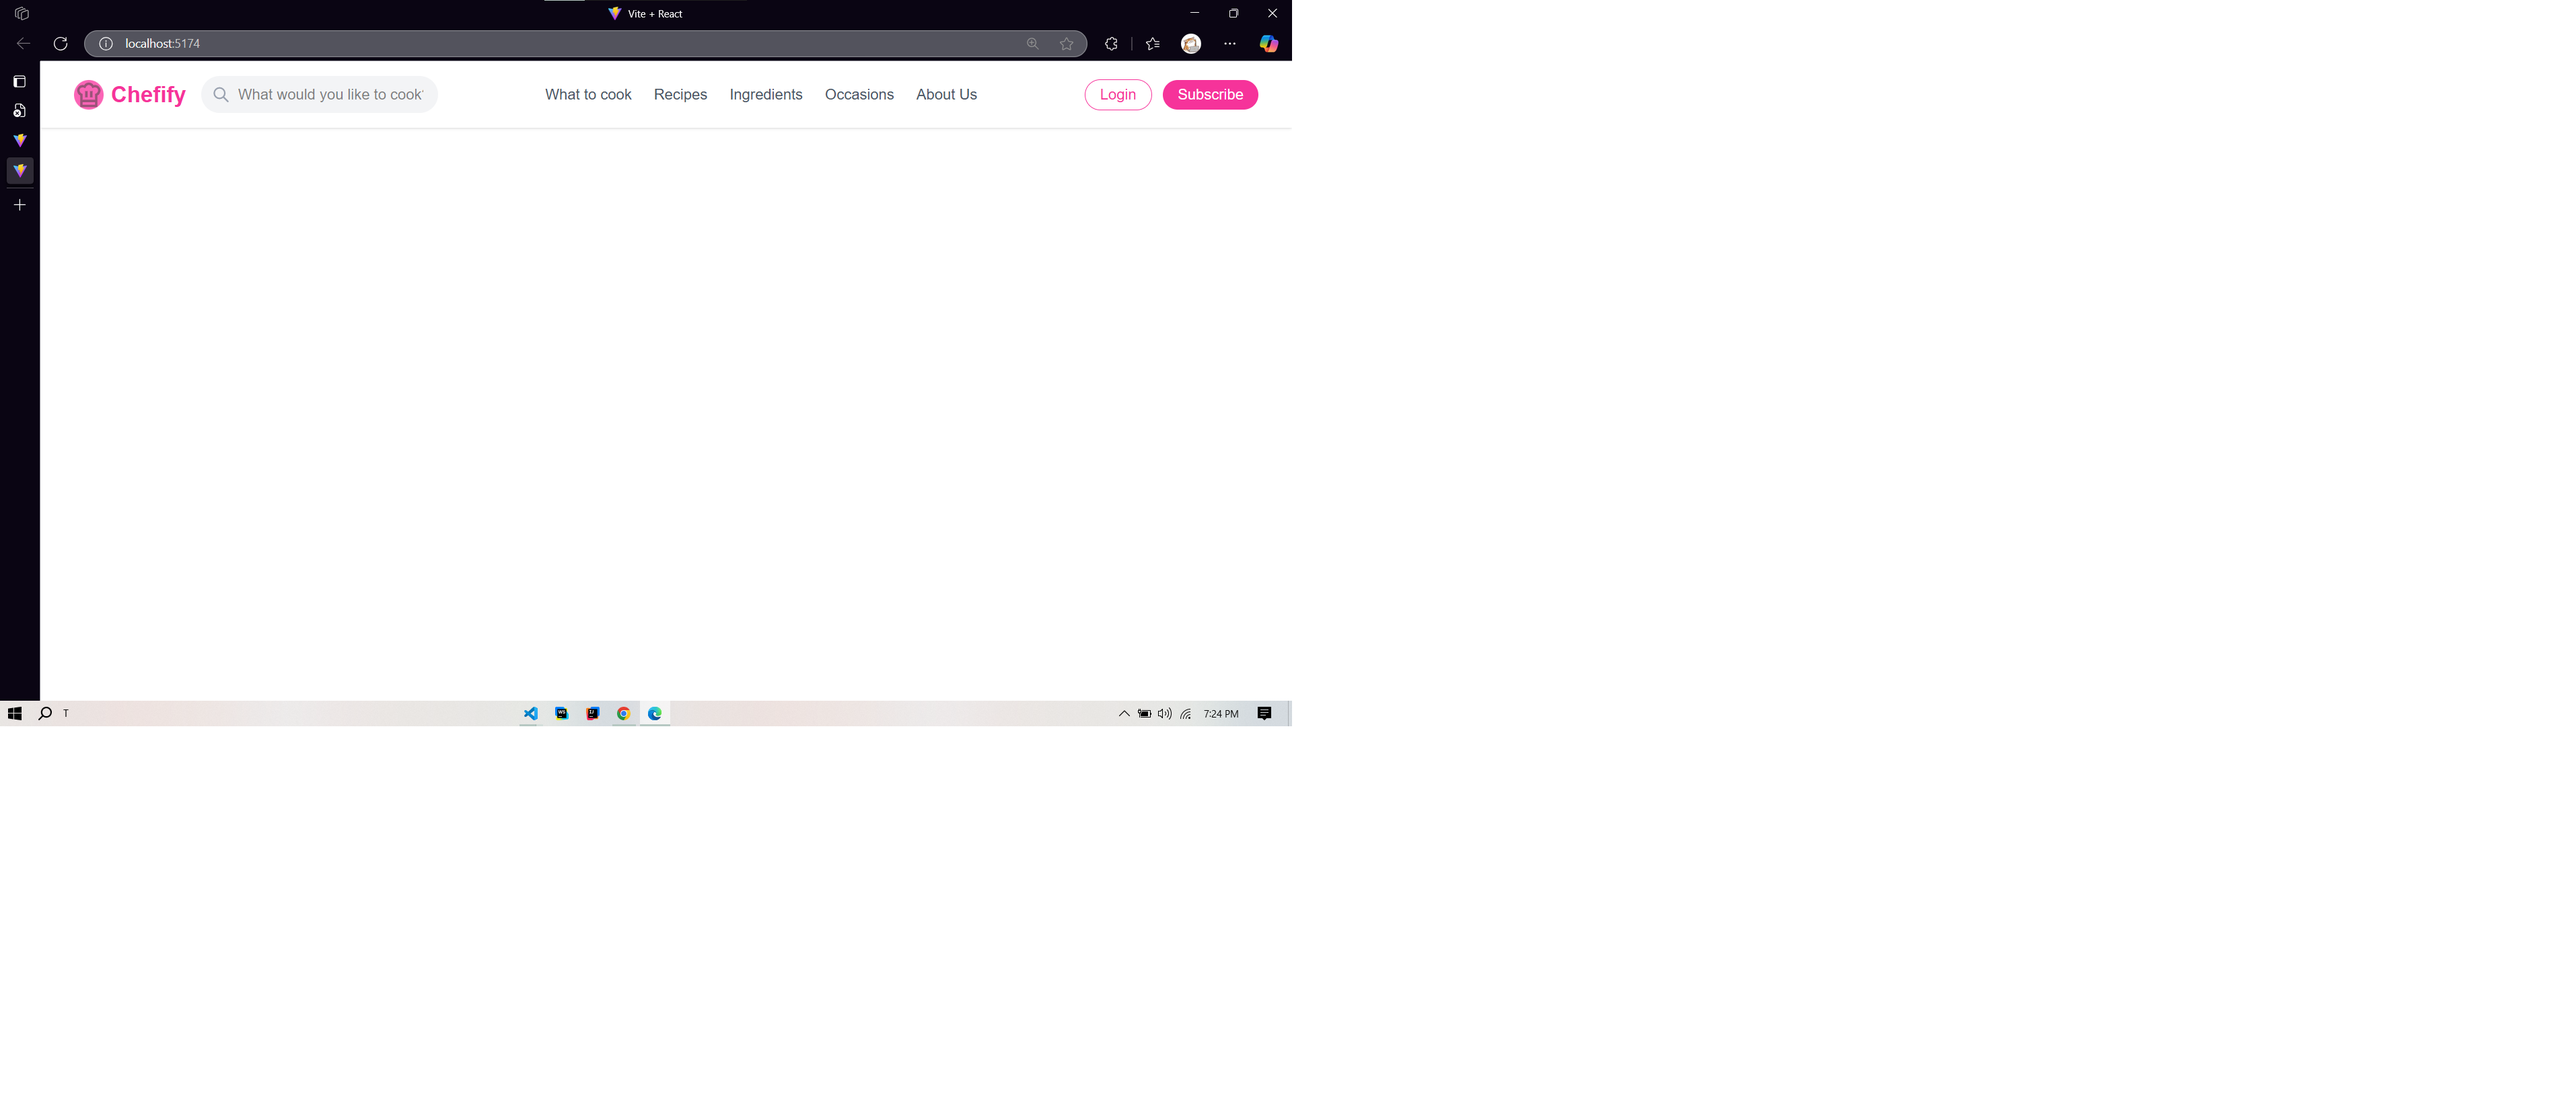
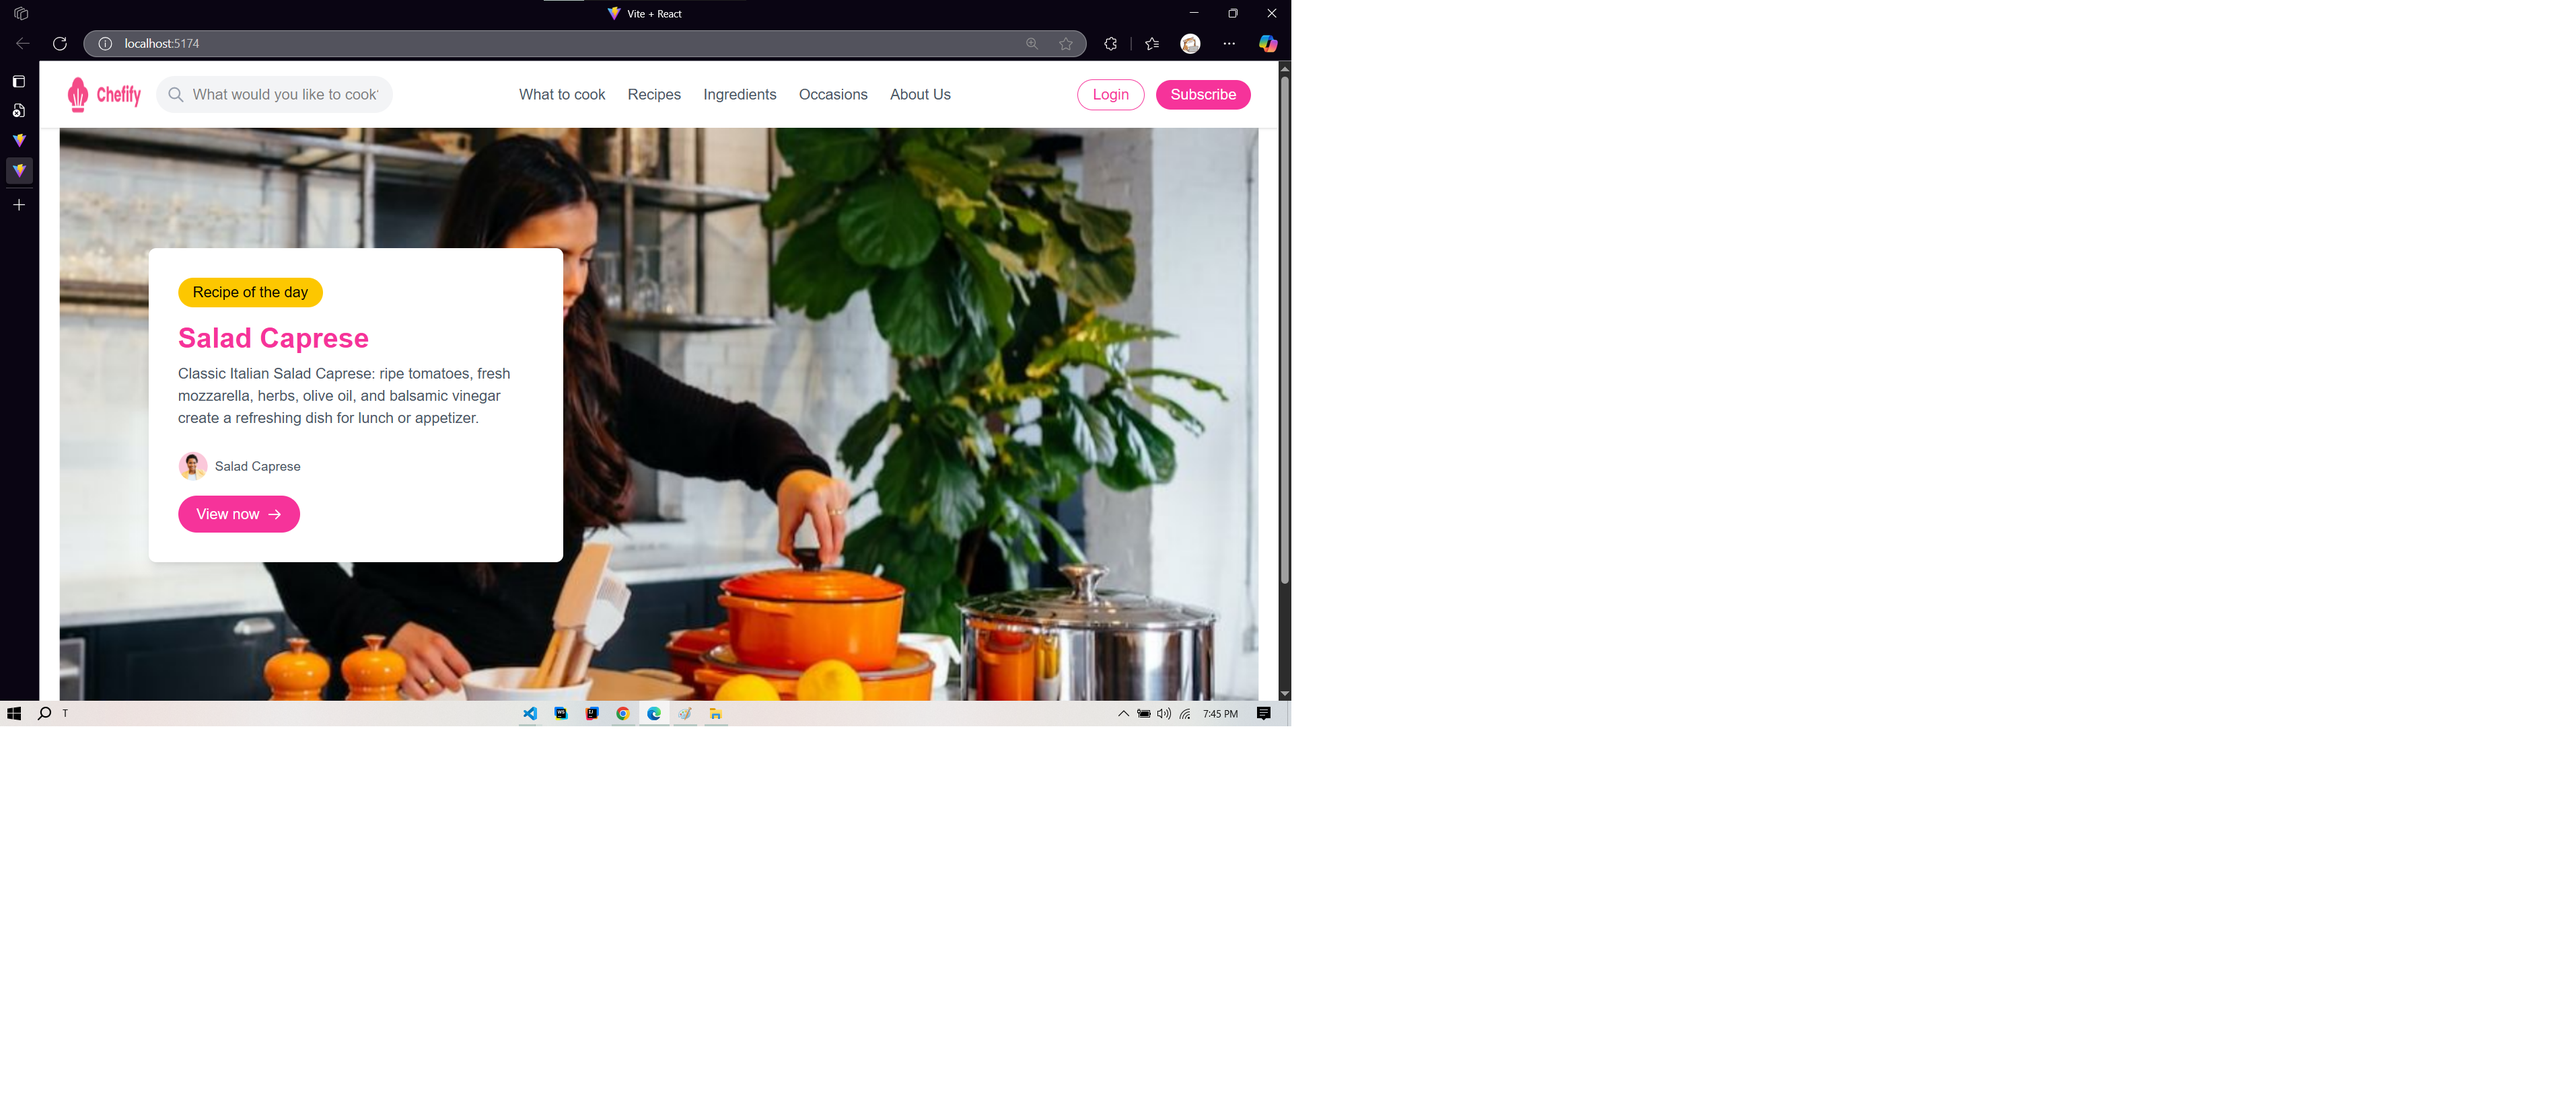
Complete nav

Changed region(s): [[0.0, 0.0312, 0.5285, 0.6562]]

diff --git a/src/components/Hero.jsx b/src/components/Hero.jsx
@@ -1,0 +1,44 @@
+import a1 from "../assets/avatar.png";
+import heroBackgroundImage from "../assets/Selection.png";
+
+const Hero = () => {
+  return (
+    <div className="relative">
+      {/* Background Image Container */}
+      <div className="absolute inset-0 w-full h-full">
+        <img
+          src={heroBackgroundImage}
+          alt="Kitchen background"
+          className="w-full h-190 object-cover"
+        />
+      </div>
+
+     
+      <div className="relative min-h-[600px] flex items-center">
+        <div className="container mx-auto px-6">
+          <div className="max-w-md bg-white rounded-lg shadow-lg p-8 ml-8 md:ml-16">
+            <div className="inline-block bg-yellow-400 px-4 py-1 rounded-full mb-4">Recipe of the day</div>
+            <h1 className="text-3xl font-bold text-pink-500 mb-2">Salad Caprese</h1>
+            <p className="text-gray-600 mb-6">
+              Classic Italian Salad Caprese: ripe tomatoes, fresh mozzarella, herbs, olive oil, and balsamic vinegar create a refreshing dish for lunch or appetizer.
+            </p>
+            <div className="flex items-center mb-4">
+              <div className="w-8 h-8 rounded-full overflow-hidden mr-2">
+                <img src={a1} alt="Chef" className="w-full h-full object-cover" />
+              </div>
+              <span className="text-sm text-gray-600">Salad Caprese</span>
+            </div>
+            <button className="bg-pink-500 text-white px-5 py-2 rounded-full hover:bg-pink-600 transition flex items-center">
+              View now
+              <svg className="w-4 h-4 ml-2" fill="none" stroke="currentColor" viewBox="0 0 24 24" xmlns="http://www.w3.org/2000/svg">
+                <path strokeLinecap="round" strokeLinejoin="round" strokeWidth="2" d="M14 5l7 7m0 0l-7 7m7-7H3"></path>
+              </svg>
+            </button>
+          </div>
+        </div>
+      </div>
+    </div>
+  );
+};
+
+export default Hero;

diff --git a/src/components/Navbar.jsx b/src/components/Navbar.jsx
@@ -1,5 +1,5 @@
 import { useState } from 'react'
-import taki from "../assets/chef.svg"
+import taki from "../assets/chefify.png"
 const Navbar = () => {
   const [searchQuery, setSearchQuery] = useState('')
   
@@ -11,9 +11,9 @@ const Navbar = () => {
             <a href="/" className="flex items-center">
               <div className="">
                
-                <img src={taki} alt="" className='w-8 h-8 bg-pink-400 rounded-2xl' />
+                <img src={taki} alt="" className='w-20 h-10 ' />
               </div>
-              <span className="ml-2 text-2xl font-bold text-pink-500">Chefify</span>
+             
             </a>
           </div>
           <div className="relative flex items-center"> {/* Giữ relative để định vị icon */}

diff --git a/src/App.jsx b/src/App.jsx
@@ -1,6 +1,6 @@
 // import { useState } from 'react'
 import Navbar from './components/Navbar'
-// import Hero from './components/Hero'
+import Hero from './components/Hero'
 // import SummerRecipes from './components/SummerRecipes'
 // import RecipesWithVideos from './components/RecipesWithVideos'
 // import EditorsPick from './components/EditorsPick'
@@ -9,13 +9,13 @@ function App() {
   return (
     <div className="min-h-screen bg-white">
       <Navbar />
-      {/* <main>
+       <main>
         <Hero />
-        <SummerRecipes />
+        {/* <SummerRecipes />
         <RecipesWithVideos />
-        <EditorsPick />
+        <EditorsPick /> */}
       </main>
-      <Footer /> */}
+      {/* <Footer />  */}
     </div>
   )
 }
